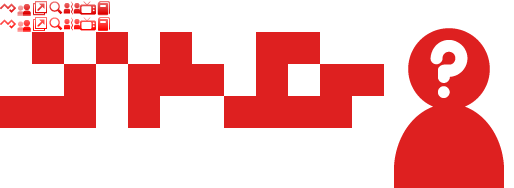
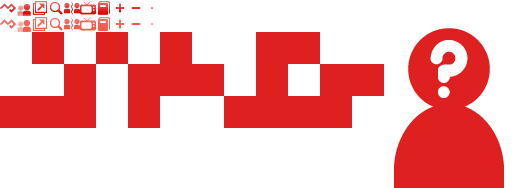
Random tweaks

Changed region(s): [[0.0, 0.0, 0.2802, 0.1862], [0.0, 0.0266, 0.0311, 0.0532]]

diff --git a/public_html/media/core.css b/public_html/media/core.css
@@ -192,6 +192,9 @@ h1 {
 	a:hover .icon-compare { background-position: -64px -16px; }
 	a:hover .icon-anime { background-position: -80px -16px; }
 	a:hover .icon-manga { background-position: -96px -16px; }
+	a:hover .icon-plus { background-position: -112px -16px; }
+	a:hover .icon-minus { background-position: -128px -16px; }
+	a:hover .icon-dot { background-position: -144px -16px; }
 
 	.icon-mg { background-position: 0 0; }
 	.icon-club { background-position: -16px 0; }
@@ -200,4 +203,7 @@ h1 {
 	.icon-compare { background-position: -64px 0; }
 	.icon-anime { background-position: -80px 0; }
 	.icon-manga { background-position: -96px 0; }
+	.icon-plus { background-position: -112px 0; }
+	.icon-minus { background-position: -128px 0; }
+	.icon-dot { background-position: -144px 0; }
 

diff --git a/public_html/media/stats-list.css b/public_html/media/stats-list.css
@@ -1,0 +1,20 @@
+div.table {
+	max-height: 500px;
+	overflow: auto;
+}
+	div.table table {
+		width: 100%;
+	}
+		div.table th,
+		div.table td {
+			padding: 2px 8px;
+		}
+			div.table th:first-child,
+			div.table td:first-child,
+			div.table th:last-child,
+			div.table td:last-child {
+				text-align: center;
+			}
+
+			.compare-mode div.table th:nth-child(2) { padding-left: 29px; }
+			div.table td i { margin-right: 5px; }

diff --git a/public_html/controllers/stats.php b/public_html/controllers/stats.php
@@ -5,6 +5,20 @@ class StatsController extends AbstractController {
 		parent::init();
 	}
 
+	private function sanitizeAM($am) {
+		if ($am != UserModel::USER_LIST_TYPE_MANGA) {
+			$am = UserModel::USER_LIST_TYPE_ANIME;
+		}
+		return $am;
+	}
+
+	private function sanitizeAction($a) {
+		if (!in_array($a, ['profile', 'list', 'score', 'act', 'fav', 'misc', 'sug', 'json'])) {
+			$a = 'profile';
+		}
+		return $a;
+	}
+
 
 	/*
 	 * Redirect to comparison mode from top search field
@@ -22,13 +36,19 @@ class StatsController extends AbstractController {
 			$u = [$_POST['user-name']];
 		}
 
+		$am = null;
 		if (!empty($_POST['am'])) {
 			$am = $_POST['am'];
-		} else {
-			$am = UserModel::USER_LIST_TYPE_ANIME;
 		}
+		$am = $this->sanitizeAM($am);
 
-		$this->forward($this->urlHelper->url('stats/profile', ['u' => $u, 'am' => $am]));
+		$action = null;
+		if (!empty($_POST['action'])) {
+			$action = $_POST['action'];
+		}
+		$action = $this->sanitizeAction($action);
+
+		$this->forward($this->urlHelper->url('stats/' . $action, ['u' => $u, 'am' => $am]));
 	}
 
 
@@ -39,7 +59,7 @@ class StatsController extends AbstractController {
 		if (empty($_REQUEST['am'])) {
 			throw new Exception('Something went wrong.');
 		}
-		$am = $_REQUEST['am'];
+		$am = $this->sanitizeAM($_REQUEST['am']);
 		$this->forward($this->urlHelper->url('stats/' . $_REQUEST['action'], ['u' => $_REQUEST['u'], 'am' => $am]));
 	}
 
@@ -106,18 +126,75 @@ class StatsController extends AbstractController {
 		if (empty($_GET['am'])) {
 			throw new Exception('Something went wrong.');
 		}
-		$am = $_GET['am'];
-		if ($am != UserModel::USER_LIST_TYPE_MANGA and $am != UserModel::USER_LIST_TYPE_ANIME) {
-			throw new Exception('Something went wrong.');
-		}
+		$am = $this->sanitizeAM($_GET['am']);
 		$this->view->am = $am;
 	}
+
+	private function loadEntries() {
+		$models = [];
+		$models[UserModel::USER_LIST_TYPE_ANIME] = new AnimeModel();
+		$models[UserModel::USER_LIST_TYPE_MANGA] = new MangaModel();
+		foreach ($this->view->users as $i => $u) {
+			foreach ($models as $am => $model) {
+				$entries = $u[$am]['entries'];
+				$nentries = [];
+				foreach ($entries as $k => $e) {
+					$key = $e['id'];
+					$e2 = $model->get($key);
+					if (!empty($e2)) {
+						$nentries[$key] = ['user' => $e, 'full' => $e2];
+					}
+				}
+				$this->view->users[$i][$am]['entries'] = $nentries;
+			}
+		}
+	}
+
 
 	public function profileAction() {
 		$this->loadUsers();
 	}
 
+	public function listAction() {
+		$this->loadUsers();
+		$this->loadEntries();
+
+		$sortFuncs = [
+			'score' => function($a, $b) { return $b['user']['score'] - $a['user']['score']; },
+			'title' => function($a, $b) { return strcasecmp($a['full']['title'], $b['full']['title']); },
+		];
+
+		//get sort column
+		$sortColumn = null;
+		if (isset($_GET['sort-column'])) {
+			$sortColumn = $_GET['sort-column'];
+		}
+		if (!isset($sortFuncs[$sortColumn])) {
+			$sortColumn = 'score';
+		}
+		$this->view->sortColumn = $sortColumn;
+
+		//get sort direction
+		$sortDir = 0;
+		if (isset($_GET['sort-dir'])) {
+			$sortDir = intval($_GET['sort-dir']);
+		}
+		$this->view->sortDir = $sortDir;
+
+		//make sort func
+		$sortFunc = $sortFuncs[$sortColumn];
+		if ($sortDir) {
+			$sortFunc = function($a, $b) use ($sortFunc) { return $sortFunc($b, $a); };
+		}
+
+		//do sort
+		foreach ($this->view->users as &$user) {
+			uasort($user[$this->view->am]['entries'], $sortFunc);
+		}
+	}
+
 	public function jsonAction() {
 		$this->loadUsers();
+		$this->loadEntries();
 	}
 }

diff --git a/public_html/helpers/mg.php b/public_html/helpers/mg.php
@@ -70,8 +70,20 @@ class mgHelper extends ChibiHelper {
 	}
 
 	public function download($url) {
-		$context = stream_context_create(['http' => ['header' => 'Connection: close']]);
-		$contents = @file_get_contents($url, false, $context);
+		$ch = curl_init();
+		curl_setopt($ch, CURLOPT_URL, $url);
+		curl_setopt($ch, CURLOPT_RETURNTRANSFER, 1);
+		curl_setopt($ch, CURLOPT_BINARYTRANSFER, 1);
+		curl_setopt($ch, CURLOPT_FAILONERROR, 1);
+		curl_setopt($ch, CURLOPT_HTTPHEADER, ['Connection: close', 'User-Agent: Mozilla/5.0 (MALgraph crawler)']);
+		//curl_setopt($ch, CURLOPT_TIMEOUT, 1);
+		$contents = curl_exec($ch);
+		curl_close($ch);
+
+		if (curl_errno($ch)) {
+			return null;
+		}
+
 		$contents = html_entity_decode($contents);
 		return $contents;
 	}

diff --git a/public_html/controllers/abstract.php b/public_html/controllers/abstract.php
@@ -15,6 +15,8 @@ class AbstractController extends ChibiController {
 			session_start();
 		}
 		$this->registry->loadModel('user');
+		$this->registry->loadModel('anime');
+		$this->registry->loadModel('manga');
 
 		$this->view->controllerName = $this->config->chibi->runtime->controllerName;
 		$this->view->actionName = $this->config->chibi->runtime->actionName;
